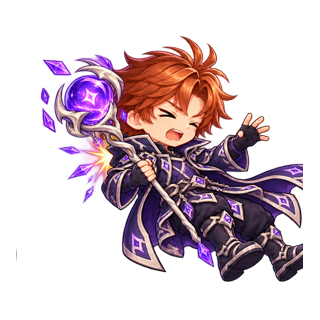
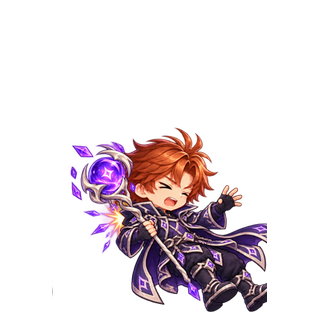
Normalize necromancer hit sprite scale

diff --git a/crystal-game.css b/crystal-game.css
@@ -91,7 +91,7 @@ html.native-app body[data-screen=battle] .battle-reward-layer{top:calc(51px + en
 .arena.hit:has(.battle-skin-mage_arcane_necromancer_skin) .enemy{animation-delay:.84s}
 .arena.hit:has(.battle-skin-mage_arcane_necromancer_skin) .enemy-label{animation-delay:.84s}
 .arena.hit:has(.battle-skin-mage_arcane_necromancer_skin) .crystal-shards i{animation-delay:.84s!important}
-.arena.wrong .battle-hero-mage.battle-skin-mage_arcane_necromancer_skin .battle-sprite{background-image:url('assets/characters/mage/arcane-necromancer-skin/char_mage_male_arcane_necromancer_sd_hit_strip.png?v=20260924-necromancer');background-position:0 0;background-size:300% 100%;animation:mage-hit-frames .82s steps(2,end) .04s both}
+.arena.wrong .battle-hero-mage.battle-skin-mage_arcane_necromancer_skin .battle-sprite{background-image:url('assets/characters/mage/arcane-necromancer-skin/char_mage_male_arcane_necromancer_sd_hit_strip.png?v=20261005-knockdown-scale');background-position:0 0;background-size:300% 100%;animation:mage-hit-frames .82s steps(2,end) .04s both}
 .battle-hero-pugilist.battle-hero-male .battle-sprite{background-image:url('assets/characters/fighter/char_fighter_male_sd_attack_strip.png?v=20260919');background-position:0 0;background-size:500% 100%}
 .battle-hero-pugilist.battle-skin-pugilist_crystal_noir_skin .battle-sprite{background-image:url('assets/characters/fighter/crystal-noir-skin/char_fighter_male_crystal_noir_sd_attack_strip.png?v=20261005-noir');background-position:0 0;background-size:500% 100%}
 .arena.hit .battle-hero-pugilist.battle-skin-pugilist_crystal_noir_skin .battle-sprite{animation:pugilist-noir-attack-frames .56s linear .1s both}
